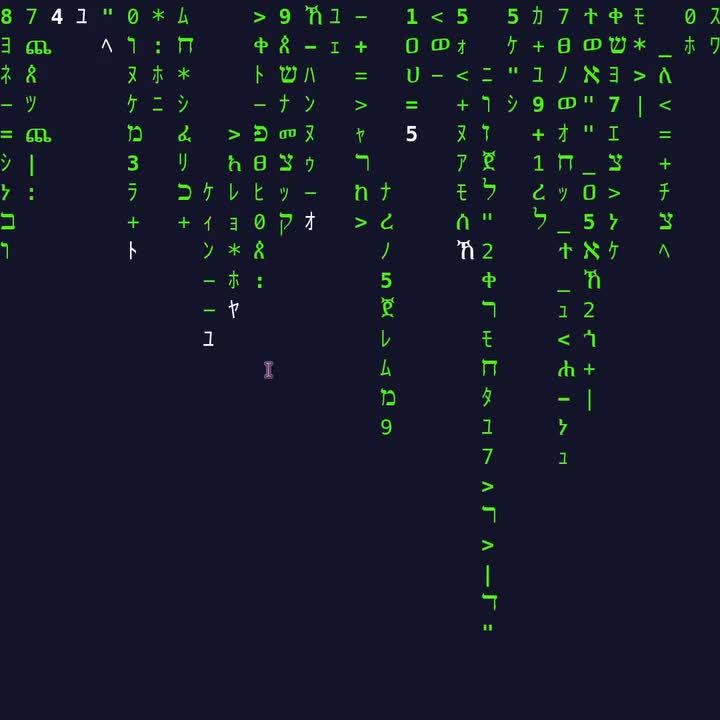
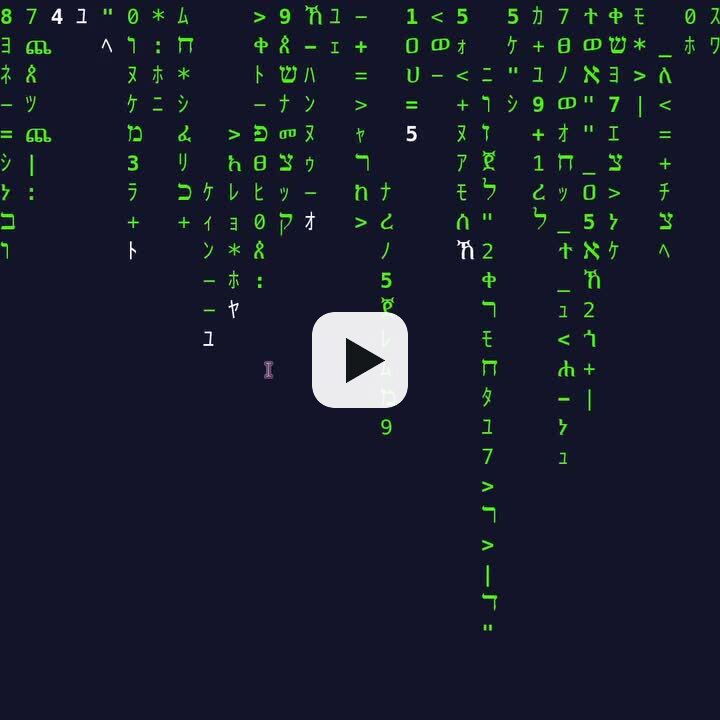
docs: README demo reel - GitHub strips <video> srcs that are not user-attachments uploads (raw/relative/release-asset all die in sanitization, verified empirically), so ship the poster frame with a play button linking the Instagram reel instead; play button rendered with magick

Changed region(s): [[0.4278, 0.4278, 0.5806, 0.5806]]

diff --git a/README.md b/README.md
@@ -13,9 +13,9 @@ Firefox fork, including Librewolf and Floorp patches, plus more.
 Lynxes are stronger and more dangerous than foxes. RozeLynx is beautiful, but she must be treated with care.
 
 <p align="center">
-<video src="https://raw.githubusercontent.com/Bytewheel/RozeLynx/main/assets/rozelynx-demo.mp4" poster="https://raw.githubusercontent.com/Bytewheel/RozeLynx/main/assets/rozelynx-demo-poster.jpg" controls width="400"></video>
+<a href="https://www.instagram.com/reel/DeSi2y-unz7/"><img src="assets/rozelynx-demo-poster.jpg" width="400" alt="RozeLynx demo reel - click to watch (with sound) on Instagram"></a>
 <br>
-<em>RozeLynx in action — from the <a href="https://www.instagram.com/reel/DeSi2y-unz7/">Instagram reel</a>. Sound on!</em>
+<em>RozeLynx in action — <a href="https://www.instagram.com/reel/DeSi2y-unz7/">watch the demo reel</a> (sound on!).</em>
 </p>
 
 RozeLynx adds enhanced PWA support, modern download handoff support (well, sort of. Tested with uGet. Testers/PRs welcome!), and the pièce de résistance, per-tab network interface binding. No more redoing VPN split tunnel clients. You can set profile defaults for interfaces, and switch interface per tab on the fly. PLEASE BE CAREFUL. We made great pains preventing leaks, using DNS over HTTPS (DoH), but it is advised to treat this as alpha-stage software. We recommend users to run leak checks with tcpdump or Wireshark, before doing anything sensitive.
